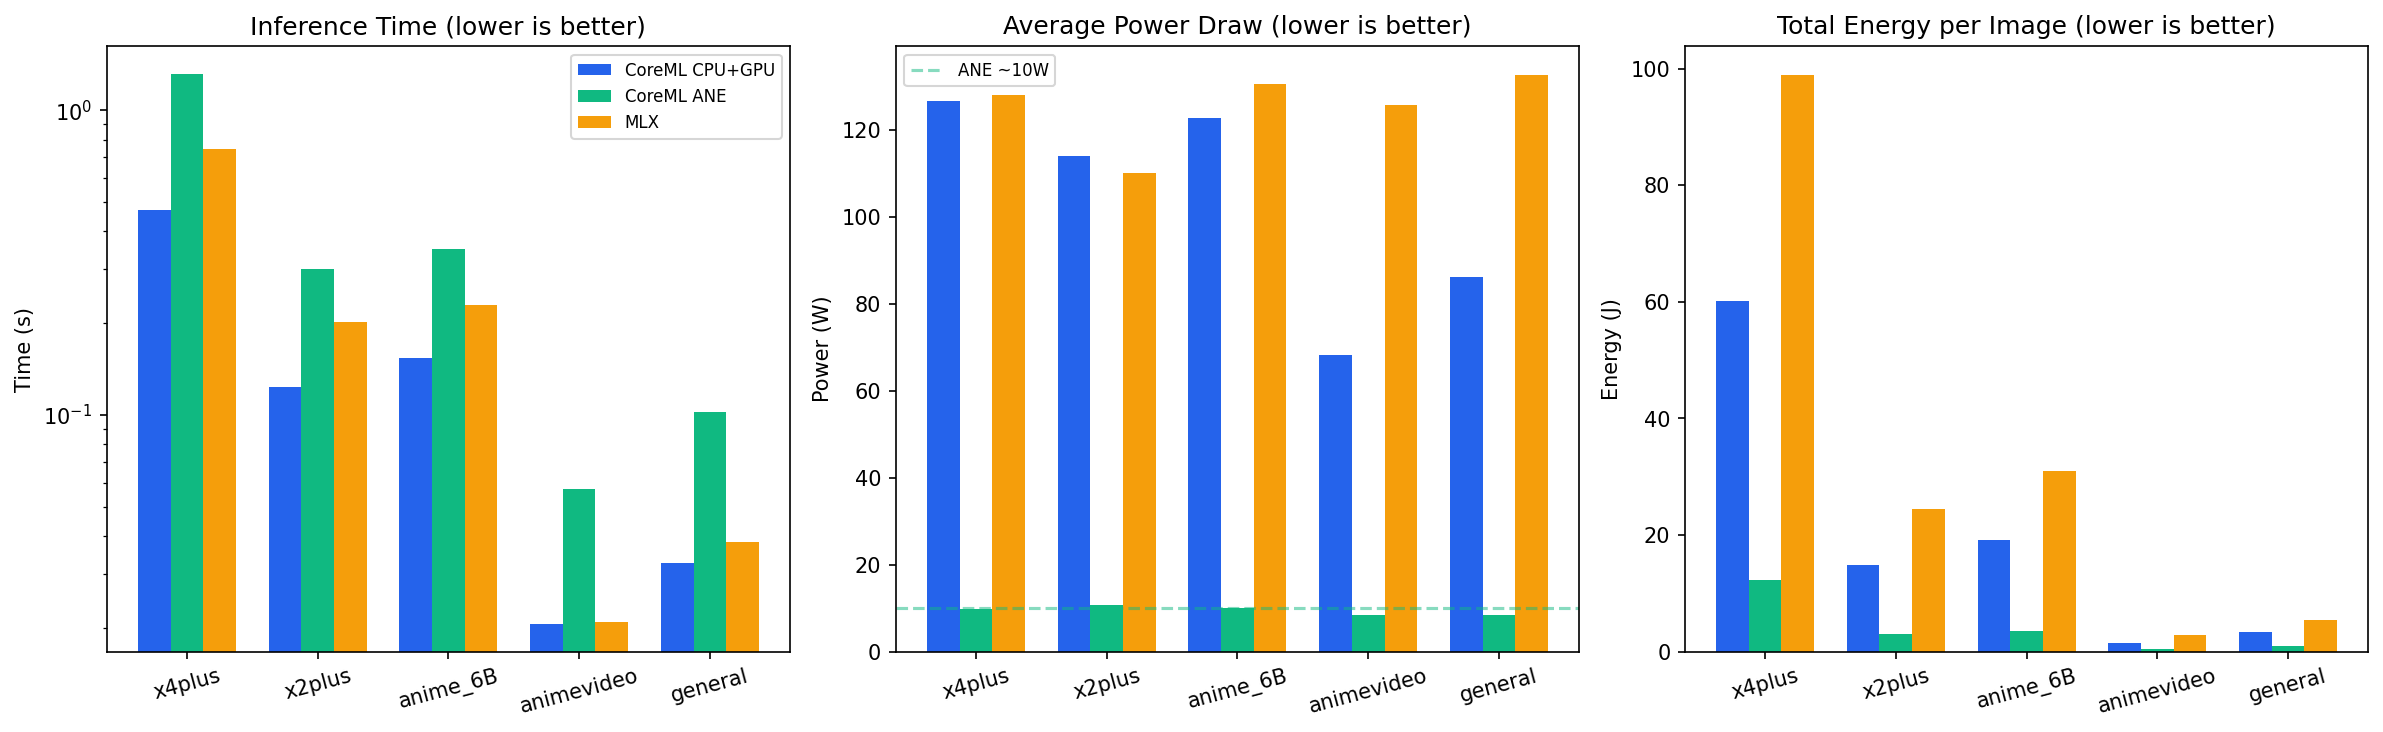
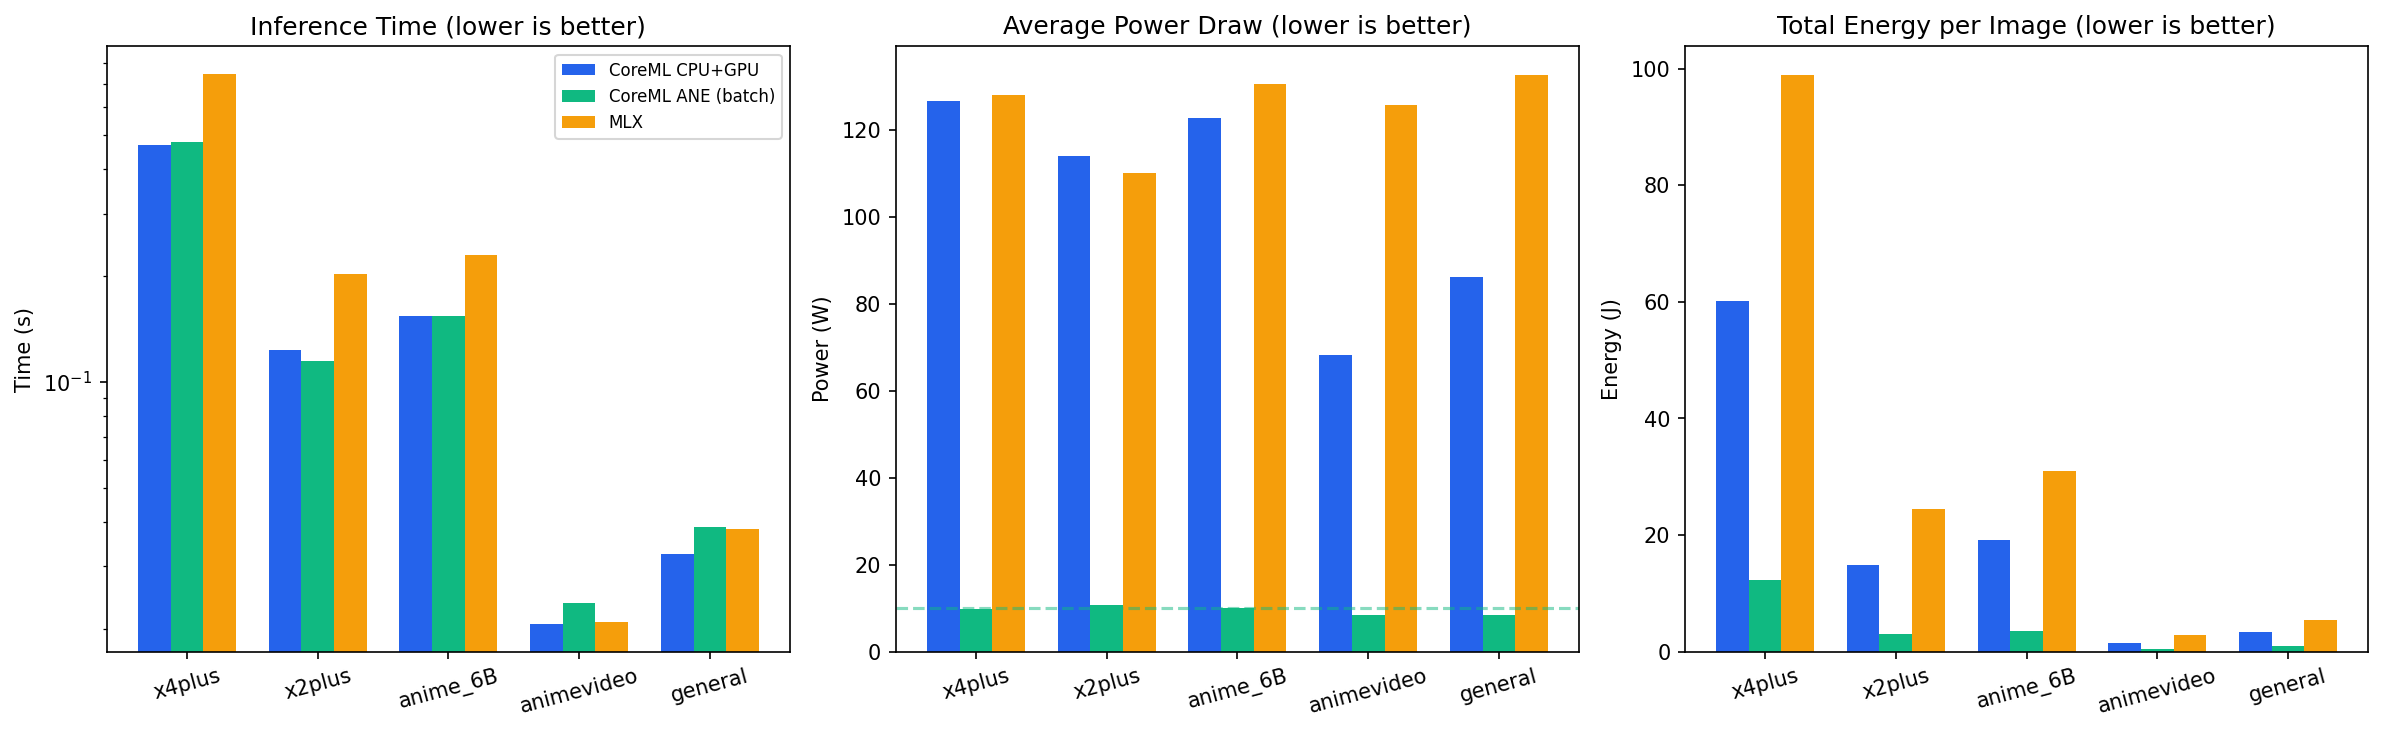
update ANE speed with flex batch data, ANE now matches GPU speed at 10x less power

diff --git a/README.md b/README.md
@@ -52,11 +52,13 @@ Benchmarked on M3 Ultra, fp16, averaged over 256/512/768 input sizes, 30s power 
 
 | Model | CoreML CPU+GPU | CoreML ANE (batch) | MLX | Speedup vs MLX |
 |-------|---------------|-------------------|-----|----------------|
-| x4plus | **0.47s** | 2.24s | 0.75s | 1.6x |
-| x2plus | **0.12s** | 0.30s | 0.20s | 1.6x |
-| anime_6B | **0.15s** | 0.35s | 0.23s | 1.5x |
-| animevideo | **0.02s** | 0.06s | 0.02s | 1.0x |
-| general | **0.03s** | 0.10s | 0.04s | 1.2x |
+| x4plus | **0.47s** | 0.48s | 0.75s | 1.6x |
+| x2plus | 0.12s | **0.11s** | 0.20s | 1.8x |
+| anime_6B | **0.15s** | 0.15s | 0.23s | 1.5x |
+| animevideo | **0.02s** | 0.02s | 0.02s | 1.0x |
+| general | **0.03s** | 0.04s | 0.04s | 1.2x |
+
+With batch inference, ANE matches GPU speed while using 10x less power.
 
 ### Power and Energy
 
@@ -103,7 +105,7 @@ Larger tiles are faster and produce better quality (fewer boundary artifacts). 5
 | | Speed | Power | Energy | Best For |
 |---|---|---|---|---|
 | CoreML CPU+GPU | fastest | high (68-127W) | medium | desktop, plugged in |
-| CoreML ANE | 2-3x slower | **low (8-11W)** | **lowest** | battery, mobile |
+| CoreML ANE (batch) | same as GPU | **low (8-11W)** | **lowest** | battery, mobile, always |
 | MLX | middle | high (110-133W) | highest | dynamic input sizes |
 
 ## Models
